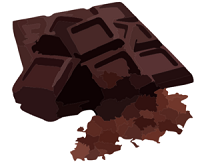
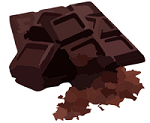
edit pictures and div to responsive-sm

diff --git a/www/templates/aboutus.html b/www/templates/aboutus.html
@@ -7,18 +7,17 @@
         <h1><strong>ABOUT US</strong></h1><br>
 
           </center>
-          <div>
-<p text-align="justify" color="black">
-    Using the technology to help children with special needs who inspire and guide us throughout the entire design process and analysis, "Play to Assist" offers learning in a fun and effective way. "Play to Assist" aims to enhance the memory of the children with our repetitive quizes that will sharpen their memory while learning. This will also help Teachers who want to improve the skills of their students with special needs.</p>
-    <br>          
-    <p>Play to Assist was developed between October 2015 and September 2016 by Jose Rizal University Students of Bachelor of Science in Information Technology.</p><br></div>
+  <div class="item item-text-wrap">
+    <p align="justify">Using the technology to help children with special needs who inspire and guide us throughout the entire design process and analysis, "Play to Assist" offers learning in a fun and effective way. "Play to Assist" aims to enhance the memory of the children with our repetitive quizes that will sharpen their memory while learning. This will also help Teachers who want to improve the skills of their students with special needs.</p>
+    <br><br>  
+    <p align="justify">Play to Assist was developed between October 2015 and September 2016 by Jose Rizal University Students of Bachelor of Science in Information Technology.</p><br></div>
 
           <p><i class="icon ion-android-chat"></i> Message Us</p><a href="https://www.facebook.com/playtoassist">Facebook.com/playtoassist</a><br>
           <br>
           <p><i class="icon ion-android-call"></i> Contact Us</p>
-          <p>0998-974-7429 / 0935-868-2792</p>
+          <p>0998-974-7429</p>
+        
       </div>
     </div>
-      
 </ion-content>
 </ion-view>

diff --git a/www/templates/modals/spicy.html b/www/templates/modals/spicy.html
@@ -5,7 +5,7 @@
     </ion-header-bar>
     <ion-content><center>
             <h4><strong>Food with spicy taste are:</strong></h4></center>
-            <center><div class="row">
+            <center><div class="row responsive-sm">
                 <div class="col">
             <strong><p style="font-family:Tahoma">Chili Pepper</p><img ng-src="img/sili.jpg"/>
             <p style="font-family:Tahoma">Wasabi</p><img ng-src="img/wasabi.jpg"/></strong>

diff --git a/www/templates/modals/bitter.html b/www/templates/modals/bitter.html
@@ -5,7 +5,7 @@
     </ion-header-bar>
     <ion-content><center>
             <h4><strong>Food with bitter taste are:</strong></h4></center>
-            <center><div class="row">
+            <center><div class="row responsive-sm">
                 <div class="col">
             <strong><p style="font-family:Tahoma">Ampalaya</p><img ng-src="img/ampalaya.jpg"/>
             <p style="font-family:Tahoma">Coffee</p><img ng-src="img/kape.png"/></strong>

diff --git a/www/templates/modals/sour.html b/www/templates/modals/sour.html
@@ -5,7 +5,7 @@
     </ion-header-bar>
     <ion-content><center>
             <h4><strong>Food with sour taste are:</strong></h4></center>
-            <center><div class="row">
+            <center><div class="row responsive-sm">
                 <div class="col">
             <strong><p style="font-family:Tahoma">Lemon</p><img ng-src="img/lemon.png"/>
             <p style="font-family:Tahoma">Orange</p><img ng-src="img/dalandandan.png"/></strong>

diff --git a/www/templates/modals/sweet.html b/www/templates/modals/sweet.html
@@ -5,7 +5,7 @@
     </ion-header-bar>
     <ion-content><center>
             <h4><strong>Food with sweet taste are:</strong></h4></center>
-            <center><div class="row">
+            <center><div class="row responsive-sm">
                 <div class="col">
             <strong><p style="font-family:Tahoma">Cupcake</p><img ng-src="img/cup.png"/>
             <p style="font-family:Tahoma">Chocolate</p><img ng-src="img/choco.jpg"/></strong>

diff --git a/www/templates/modals/wrong.html b/www/templates/modals/wrong.html
@@ -6,7 +6,7 @@
         <br>
         <br>
         <center>
-             <h1 class="title">Your Answer is INCORRECT!</h1>
+             <h1 class="title">Your Answer is INCORRECT!</h1><img ng-src="img/sad.png"/>
             <h1><font color="gray"><a class="button button-primary" ng-click="wrong.hide();">TRY AGAIN</a></font></h1>
         </center>
     </ion-content>

diff --git a/www/templates/modals/salty.html b/www/templates/modals/salty.html
@@ -6,7 +6,7 @@
     <ion-content>
         <center>
             <h4><strong>Food with salty taste are:</strong></h4></center>
-        <center><div class="row">
+        <center><div class="row responsive-sm">
             <div class="col">
             <strong>
                 <p style="font-family:Tahoma">Peanuts</p><img ng-src="img/nut.jpg"/>
